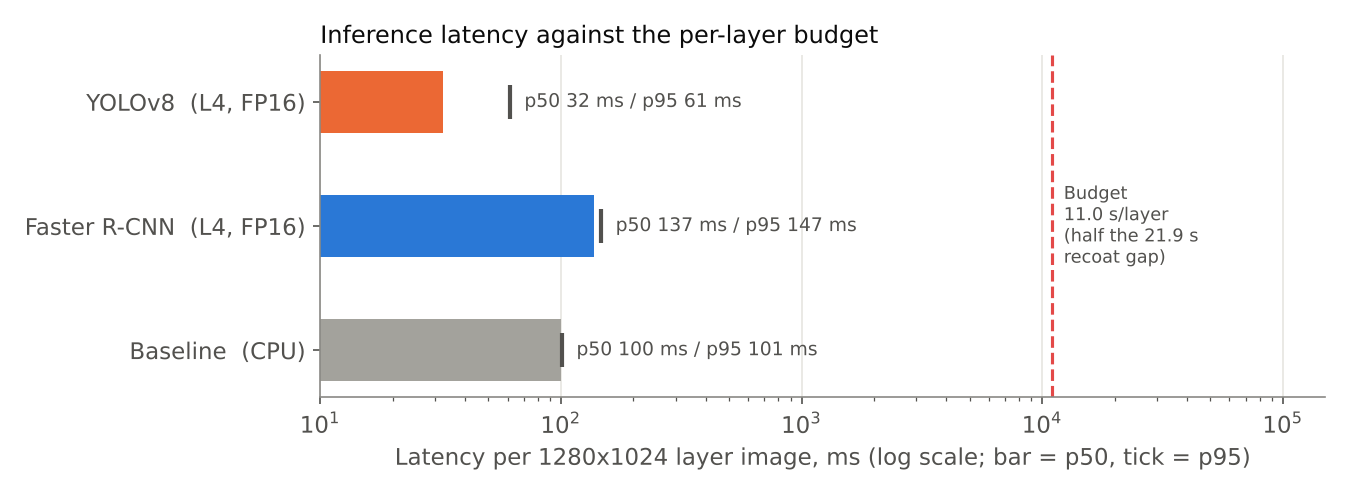
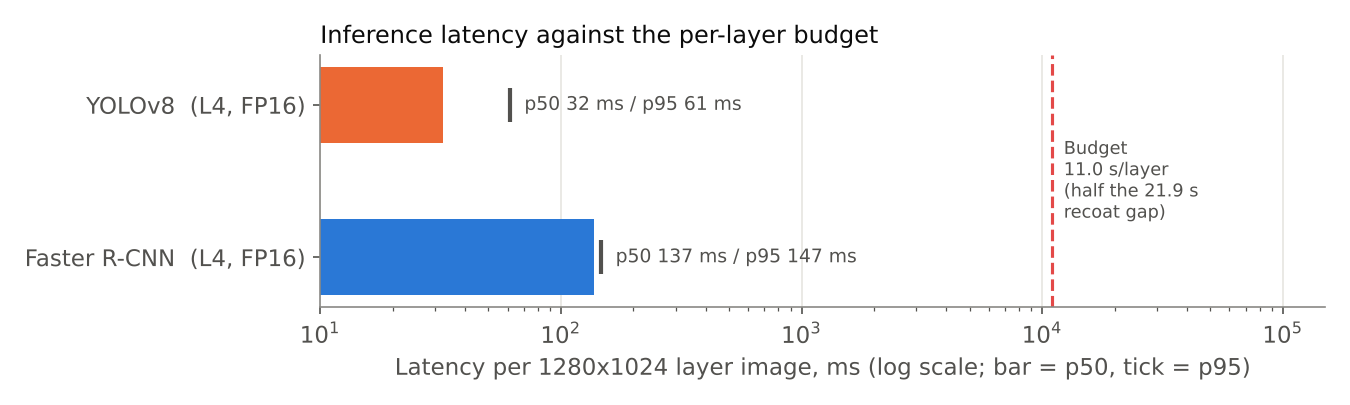
README: plainer tone, static diagrams, baseline moved to a note

diff --git a/README.md b/README.md
@@ -2,102 +2,88 @@
 
 ![Layerwise: recoating-defect monitor for L-PBF](docs/assets/banner.png)
 
-**Every 20-50 seconds, a metal 3D printer spreads a fresh layer of powder and takes a photo of it.
-If the recoater blade leaves a streak or a bare patch, the next layer buries it for good.
-Layerwise looks at every photo and flags the bad spot in 32 ms, long before the laser fires.**
+A metal 3D printer (laser powder bed fusion, L-PBF) spreads a new layer of powder every 20-50
+seconds and takes a photo of it. If the recoater blade leaves a streak or a bare patch, the next
+layer covers it. This project is an attempt to flag those spots on each photo before the next layer
+goes down.
 
-Built on 1,530 labeled powder bed images from three real laser powder bed fusion (L-PBF) builds,
-and evaluated the way a production monitor would be used: on whole builds the model has never seen.
+It was built on a public dataset of 1,530 labeled powder bed images from three builds, and tested
+on whole builds that the model did not see during training.
 
 ## At a glance
 
-| | YOLOv8 (default) | Faster R-CNN | Classical baseline |
-|---|---:|---:|---:|
-| mAP@0.5, held-out builds | **0.270** | 0.257 | 0.001 |
-| Recall @ IoU 0.5 | **0.592** | 0.521 | 0.028 |
-| Precision | 0.131 | **0.212** | 0.015 |
-| F1 | 0.214 | **0.301** | 0.019 |
-| Latency p50 / p95, one 1280x1024 layer | **32 / 61 ms** · L4 FP16 | 137 / 147 ms · L4 FP16 | 100 / 101 ms · CPU |
+| Held-out builds, pooled | YOLOv8 | Faster R-CNN |
+|---|---:|---:|
+| mAP@0.5 | 0.270 | 0.257 |
+| Recall @ IoU 0.5 | 0.592 | 0.521 |
+| Precision | 0.131 | 0.212 |
+| F1 | 0.214 | 0.301 |
+| Latency p50 / p95 per 1280x1024 layer (NVIDIA L4, FP16) | 32 / 61 ms | 137 / 147 ms |
 
-- **Learned beats classical by a wide margin.** A tuned local-contrast detector (OpenCV) finds 3%
-  of the anomalies; YOLOv8 finds 59%.
-- **Real time with room to spare.** The budget is half of the shortest median gap between layers,
-  11.0 s. YOLOv8 uses 0.3% of it.
-- **Honest numbers.** Leave-one-build-out testing, size-bucketed recall, flagged weak validation
-  splits, and a from-scratch rerun that reproduced the result exactly.
+- On builds it has not seen, YOLOv8 finds about 6 in 10 labeled anomalies. Precision is low
+  (0.13), so most of its boxes are false alarms: today it is a triage aid for an operator, not a
+  signal to stop the machine.
+- Inference takes a small fraction of the time between layers (32 ms against an 11 s budget), so
+  speed is not the constraint; accuracy on new builds is.
+- Results vary a lot from one build to another, and three builds is a small sample.
 
-Every figure here comes from [`docs/results/`](docs/results/), generated by `layerwise report`.
+All numbers come from [`docs/results/`](docs/results/), generated by `layerwise report`.
 
-## Why this is hard
+## Constraints and the choices made
 
-| Challenge | What it means here | How Layerwise handles it |
-|---|---|---|
-| Small targets in a large frame | A streak can be a few pixels wide in a 1280x1024 image. | 640 px tiles with 160 px overlap, stitched back with NMS. |
-| Every build looks different | Lighting, part layout and defect density change from job to job. | Model selection and testing on whole held-out builds. |
-| The printer does not wait | A new layer arrives every 20-50 s. | A latency budget derived from the data, checked by `benchmark`. |
-| Few labels | Three builds, one has only 127 labeled images. | Nested folds, a reliability flag, a non-learned baseline as the floor. |
+| Constraint | What it means here | Approach taken | Still open |
+|---|---|---|---|
+| Small targets | A streak can be a few pixels wide in a 1280x1024 image. | 640 px tiles with 160 px overlap, stitched back with NMS. | Small-object recall is 0.35. |
+| Each build looks different | Lighting, part layout and defect density change from job to job. | Model selection and testing on whole held-out builds. | Recall on the 2021 build is 0.12. |
+| Time between layers | A new layer arrives every 20-50 s. | A latency budget taken from the image timestamps, checked by `benchmark`. | Measured on a cloud GPU, not on edge hardware. |
+| Few labels | Three builds; one has 127 labeled images. | Nested folds, with small validation splits flagged in the report. | More builds are needed. |
 
 ## How it works
 
-```mermaid
-flowchart LR
-    A["Powder bed photo<br/>every layer"] --> B["Ingest<br/>Parquet tables, folds,<br/>PB/OT layer pairing"]
-    B --> C["Tile<br/>640 px, 160 px overlap"]
-    C --> D1["YOLOv8"]
-    C --> D2["Faster R-CNN"]
-    C --> D3["Contrast baseline"]
-    D1 & D2 & D3 --> E["Stitch + NMS<br/>one Detector interface"]
-    E --> F["Per-layer record<br/>boxes, confidence,<br/>defect map"]
-    E --> G["Evaluate + report<br/>per build, pooled, by size,<br/>latency vs budget"]
-```
+![Pipeline](docs/assets/pipeline.png)
 
-1. **Ingest** (`src/layerwise/ingest/`) reads the dataset in place, never copying or editing an
+1. **Ingest** (`src/layerwise/ingest/`) reads the dataset in place, without copying or editing any
    image, and writes `images`, `boxes`, `layer_pairs` and `folds` as Parquet. Joins and counts are
-   DuckDB SQL over Parquet. A rerun with unchanged inputs is a no-op, checked by a content manifest.
-2. **Detect** (`src/layerwise/detect/`) trains three models behind one `Detector` protocol, so all
-   three go through the same tiling, stitching, matching and reporting code.
-3. **Predict** writes one row per processed layer plus a defect map. "No defect found" and
-   "layer not processed" are never confused. The format is a
-   [written contract](specs/002-powder-bed-detection/contracts/defect-representation.md) that any
-   later model, such as a segmentation network, must follow.
+   DuckDB SQL over Parquet. A rerun with unchanged inputs does nothing, checked by a content
+   manifest.
+2. **Detect** (`src/layerwise/detect/`) trains both models behind one `Detector` interface, so they
+   share the tiling, stitching, matching and reporting code.
+3. **Predict** writes one row per processed layer plus a defect map, so "no defect found" and
+   "layer not processed" stay distinct. The format is described in
+   [a written contract](specs/002-powder-bed-detection/contracts/defect-representation.md).
 
 ## How it is evaluated
 
-```mermaid
-flowchart TB
-    subgraph Outer["Outer fold k: hold out one whole build for testing"]
-        direction LR
-        T["Test build<br/>touched once"]
-        subgraph Inner["Inner folds on the other two builds"]
-            direction LR
-            I1["train on A, validate on B"]
-            I2["train on B, validate on A"]
-        end
-        Inner -->|"pick candidate + threshold"| R["Retrain on A + B"] --> T
-    end
-```
+![Nested leave-one-build-out](docs/assets/folds.png)
 
-- **Why whole builds:** consecutive layers of one build look almost the same. A random image split
-  leaks the answer into training and inflates every metric.
-- **Candidates:** YOLOv8n and YOLOv8s, each at 640 and 1024 px tiles; Faster R-CNN ResNet-50 v2
-  (COCO-pretrained). Choice and confidence threshold come from inner folds only.
-- **Matching:** one-to-one at IoU 0.5. Recall is also split by box size (small < 32x32 px,
+- **Why whole builds:** consecutive layers of one build look almost the same, so a random image
+  split would put near-duplicates in training and test and overstate every metric.
+- **Candidates:** YOLOv8n and YOLOv8s at 640 and 1024 px tiles; Faster R-CNN ResNet-50 v2
+  (COCO-pretrained). The choice and the confidence threshold come from the inner splits only.
+- **Matching:** one-to-one at IoU 0.5. Recall is also reported by box size (small < 32x32 px,
   large >= 96x96 px).
-- **Default model:** chosen by code, not by hand: the best pooled mAP@0.5 among models that meet
-  the latency budget on the target GPU.
-- **Reproducibility:** YOLOv8 fold 0 was retrained from scratch with `--repro`; mAP@0.5 and recall
-  matched to the last digit.
+- **Default model:** picked by code, as the best pooled mAP@0.5 among models within the latency
+  budget.
+- **Reproducibility check:** YOLOv8 on outer fold 1 was retrained from scratch with `--repro`;
+  mAP@0.5 and recall came out identical.
+
+**A note on the classical baseline.** A local-contrast detector (OpenCV, threshold tuned on the
+inner splits) was run through the same protocol as a sanity check. It scored almost zero
+(pooled recall 0.028): on the 2021 build it produced 2,329 boxes and none overlapped a label at
+IoU 0.5. It is left out of the charts because it is not a meaningful point of comparison; its
+numbers are in [`docs/results/comparison.md`](docs/results/comparison.md).
 
 ## Results
 
-### 1. Both learned models clear the classical floor
+### Pooled over the three held-out builds
 
 ![Pooled metrics](docs/assets/pooled_metrics.png)
 
-YOLOv8 leads on mAP and recall; Faster R-CNN on precision and F1. For a monitor, a missed
-anomaly can scrap a part while a false alarm costs an operator a glance, so recall and speed decide.
+The two detectors are close on mAP. YOLOv8 has higher recall, Faster R-CNN higher precision and F1.
+YOLOv8 became the default because it is about 4x faster at a similar mAP. For monitoring, a missed
+anomaly usually costs more than a false alarm, but the low precision is a real limitation.
 
-### 2. The build matters more than the model
+### Per held-out build
 
 ![Per-build metrics](docs/assets/per_build.png)
 
@@ -108,55 +94,52 @@ anomaly can scrap a part while a false alarm costs an operator a glance, so reca
 | 2024-03-18 (`...0120348`) | 996 | 3,961 | 0.269 | 0.656 | 0.270 | 0.589 |
 
 Recall ranges from 0.12 to 0.66 depending on which build is held out. The 2021 build has different
-lighting and about 1.4 labeled boxes per image against roughly 4 in the 2024 builds. Both models
-struggle on it in the same way, which points to distribution shift rather than model capacity:
-more builds would move the pooled number more than a bigger network.
+lighting and about 1.4 labeled boxes per image, against roughly 4 in the 2024 builds. Both models
+drop on it in a similar way, which suggests a shift in the data rather than a model-specific
+problem. More builds would probably help more than a larger network, but that is untested here.
 
-### 3. Small defects are the open problem
+### By defect size
 
 ![Recall by size](docs/assets/recall_by_size.png)
 
-Large anomalies are found three times out of four, small ones about one time in three. That is
-where the next gain lies: finer tiles, a small-object head, or the optical tomography image of the
-same layer as a second input (already paired by the ingest step).
+Large anomalies are found about three times in four, small ones about one time in three. Possible
+next steps: finer tiles, a small-object head, or adding the optical tomography image of the same
+layer as a second input (the ingest step already pairs them).
 
-### 4. Fast enough to check every layer
+### Latency
 
 ![Latency](docs/assets/latency.png)
 
-The budget comes from the data: the median time between consecutive powder bed photos is 21.9 s in
-the fastest build, and the monitor may use half. Measured on an AWS `g6.xlarge` (NVIDIA L4), FP16,
-16 tiles per batch, 3 warm-up and 20 timed runs, JPEG decode excluded.
+The budget is half of the shortest median gap between consecutive powder bed photos (21.9 s).
+Measured on an AWS `g6.xlarge` (NVIDIA L4), FP16, 16 tiles per batch, 3 warm-up and 20 timed runs,
+JPEG decode excluded. No edge device has been tested.
 
-### 5. What the model sees
+### Example detections
 
 ![Evidence grid](docs/assets/evidence_grid.jpg)
 
-All four photos come from builds that were held out of training.
+All four photos come from builds held out of training, including one false alarm and one partial
+match.
 
 ### Limits
 
 - Labels are Aalto manual boxes for **recoating-phase anomalies** on the powder bed. Nothing here
   detects or reports porosity.
-- Precision is low (YOLOv8 0.13): the detector fits operator triage, not automatic machine stops.
-- Three builds is a small sample; per-build figures are indicative.
-- Two inner validation splits had fewer than 150 labeled images and are flagged as unreliable in
-  the report.
+- Precision is low (YOLOv8 0.13).
+- Three builds is a small sample; per-build figures are indicative only.
+- Two inner validation splits had fewer than 150 labeled images and are flagged in the report.
 
-## Engineering
+## Notes on the code
 
-- **Config-driven.** Paths, hyperparameters and budgets live in `configs/`, with `local`, `aws` and
-  `fixture` profiles.
-- **Data never enters the repo.** Everything lives under `$DATA_ROOT`. A 120-image downscaled
-  fixture (CC-BY, attributed) is committed so the full pipeline runs in tests.
-- **Resumable.** Each fold job writes `result.json` when done and is skipped on rerun; interrupted
-  training resumes from its last checkpoint.
-- **Contracts and tests.** CLI behaviour, Parquet schemas and the per-layer output are written
-  contracts in `specs/*/contracts/`, enforced by 200 unit, contract and integration tests
-  (185 run without the `vision` extra).
-- **Traceable.** MLflow tracking; every job manifest records library versions and an input hash.
-- **Cloud on a budget.** Full training on one EC2 L4 instance with artifacts synced to S3 and a
-  budget action that stops the instance. Runbook: [docs/aws.md](docs/aws.md).
+- Paths, hyperparameters and budgets live in `configs/`, with `local`, `aws` and `fixture` profiles.
+- Data stays outside the repo under `$DATA_ROOT`. A 120-image downscaled fixture (CC-BY, with
+  attribution) is committed so the pipeline can run in tests.
+- Each fold job writes `result.json` when it finishes and is skipped on rerun; interrupted training
+  resumes from its last checkpoint.
+- CLI behaviour, Parquet schemas and the per-layer output are written down in `specs/*/contracts/`
+  and checked by 200 unit, contract and integration tests (185 run without the `vision` extra).
+- Runs are tracked in a local MLflow store; job manifests record library versions and an input hash.
+- Full training ran on one EC2 L4 instance with artifacts in S3: [docs/aws.md](docs/aws.md).
 
 ## Quickstart
 
@@ -212,6 +195,7 @@ scripts/          smoke run, sample viewer
 
 Aalto University L-PBF powder bed (PB) and optical tomography (OT) images with manual labels.
 Zenodo, DOI [10.5281/zenodo.14996805](https://doi.org/10.5281/zenodo.14996805), CC-BY-4.0.
+Thanks to the authors for making it public.
 
 | Build | PB images | PB labeled | PB boxes | OT images | OT labeled | OT boxes |
 |---|---:|---:|---:|---:|---:|---:|
@@ -227,8 +211,8 @@ Images in `docs/assets/` and `tests/fixtures/aalto/` are derivatives of this dat
 Not built yet:
 
 - Melting-phase anomalies on the OT images (class `overheated`, already ingested and paired).
-- Severity score per layer and alert thresholds from the defect maps.
-- ONNX / TensorRT export of the default detector.
+- A severity score per layer and alert thresholds from the defect maps.
+- ONNX / TensorRT export and a test on edge hardware.
 - Part-level quality prediction from per-layer features.
 
 ## License notes
